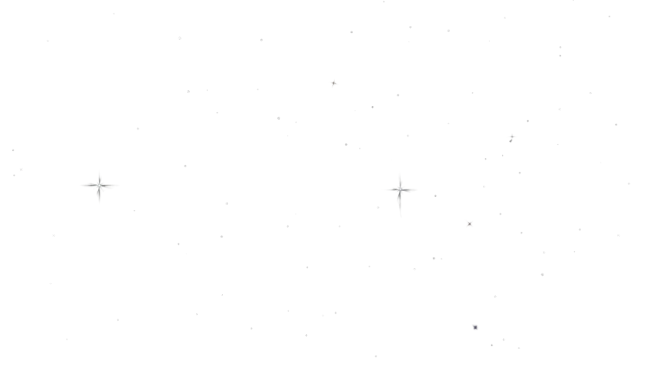
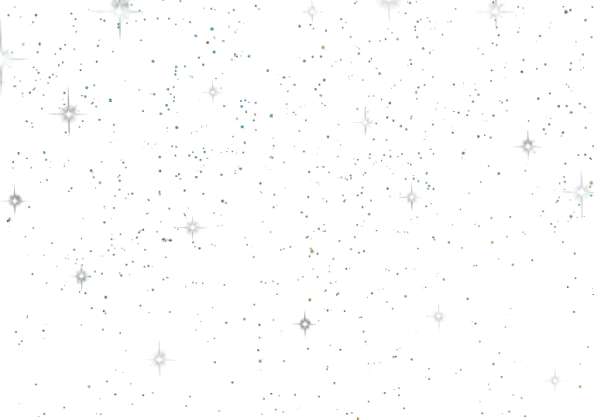
Push new updates

diff --git a/src/pages/Home/Services.js b/src/pages/Home/Services.js
@@ -11,54 +11,19 @@ import solution from '../../assest/office-idea-bulb-solution-business-svgrepo-co
 import { motion } from "framer-motion";
 
 const Services_Cards = [
-    {
-        id: 1,
-        icon: cloud,
-        title: "Cloud Computing",
-        paragraph: " Cloud computing enables easy access to data and applications from anywhere using the internet efficiently.",
-        link: "Read More"
-    },
-    {
-        id: 2,
-        icon: business,
-        title: "Business Strategy",
-        paragraph: " business strategy helps organizations achieve goals through effective planning and  decision-making.",
-        link: "Read More"
-    },
-    {
-        id: 3,
-        icon: report,
-        title: "Reports Analysis",
-        paragraph: "Analyzing reports provides valuable insights for data-driven decisions and improvement in business performance.",
-        link: "Read More"
-    },
-    {
-        id: 4,
-        icon: decision,
-        title: "Decision Maker",
-        paragraph: "Making informed decisions requires analyzing data, evaluating options and selecting the best possible solution.",
-        link: "Read More"
-    },
-    {
-        id: 5,
-        icon: customer,
-        title: "Customer Oriented",
-        paragraph: "Being customer-oriented means delivering services and solutions that meet needs and experience.",
-        link: "Read More"
-    },
-    {
-        id: 6,
-        icon: solution,
-        title: "Solutions Focused",
-        paragraph: "Focusing on solutions fosters innovation and efficiency to resolve problems and improve overall productivity.",
-        link: "Read More"
-    }
+    { id: 1, icon: cloud, title: "Cloud Computing", paragraph: " Cloud computing enables easy access to data and applications from anywhere using the internet efficiently.", link: "Read More" },
+    { id: 2, icon: business, title: "Business Strategy", paragraph: " business strategy helps organizations achieve goals through effective planning and  decision-making.", link: "Read More" },
+    { id: 3, icon: report, title: "Reports Analysis", paragraph: "Analyzing reports provides valuable insights for data-driven decisions and improvement in business performance.", link: "Read More" },
+    { id: 4, icon: decision, title: "Decision Maker", paragraph: "Making informed decisions requires analyzing data, evaluating options and selecting the best possible solution.", link: "Read More" },
+    { id: 5, icon: customer, title: "Customer Oriented", paragraph: "Being customer-oriented means delivering services and solutions that meet needs and experience.", link: "Read More" },
+    { id: 6, icon: solution, title: "Solutions Focused", paragraph: "Focusing on solutions fosters innovation and efficiency to resolve problems and improve overall productivity.", link: "Read More" }
 ];
 
 function Services() {
     return (
-        <section id="services_section">
-            <div className="blur-bg"></div>
+        <section id="services_section" className="services-section">
+            <div className="stars-bg"></div>
+
             <Container>
                 <Row>
                     <Col lg={{ span: 8, offset: 2 }} className="text-center mb-5">
@@ -82,19 +47,17 @@ function Services() {
                     </Col>
                 </Row>
 
-                <Row>
-                    <Row className="row-cards">
-                        {Services_Cards.map((cardData, index) => (
-                            <Cards
-                                key={index}
-                                id={index + 1}
-                                icon={cardData.icon}
-                                title={cardData.title}
-                                paragraph={cardData.paragraph}
-                                link={cardData.link}
-                            />
-                        ))}
-                    </Row>
+                <Row className="row-cards">
+                    {Services_Cards.map((cardData, index) => (
+                        <Cards
+                            key={index}
+                            id={index + 1}
+                            icon={cardData.icon}
+                            title={cardData.title}
+                            paragraph={cardData.paragraph}
+                            link={cardData.link}
+                        />
+                    ))}
                 </Row>
             </Container>
         </section>

diff --git a/src/styles/Services.css b/src/styles/Services.css
@@ -1,8 +1,9 @@
 #services_section{
 background-color: var(--bg-color) !important;
-background: url(../../src/assest/stars.png) center no-repeat;
-background-size: cover;
-padding-top: 30px;
+padding-top: 35px;
+padding-bottom: 20px;
+position: relative;
+    overflow: hidden;
 }
 #services_section h2{
     font-weight: 700;
@@ -14,3 +15,25 @@ padding-top: 30px;
         font-size: 30px;
     }
 }
+.stars-bg {
+    position: absolute;
+    top: 0;
+    left: 0;
+    width: 100%;
+    height: 100%;
+    z-index: 0;
+    background: transparent;
+    overflow: hidden;
+}
+
+.stars-bg::before {
+    content: "";
+    position: absolute;
+    width: 200%;
+    height: 200%;
+    background: radial-gradient(white 1px, transparent 1px);
+    background-size: 30px 30px;
+    opacity: 0.3;
+}
+
+
